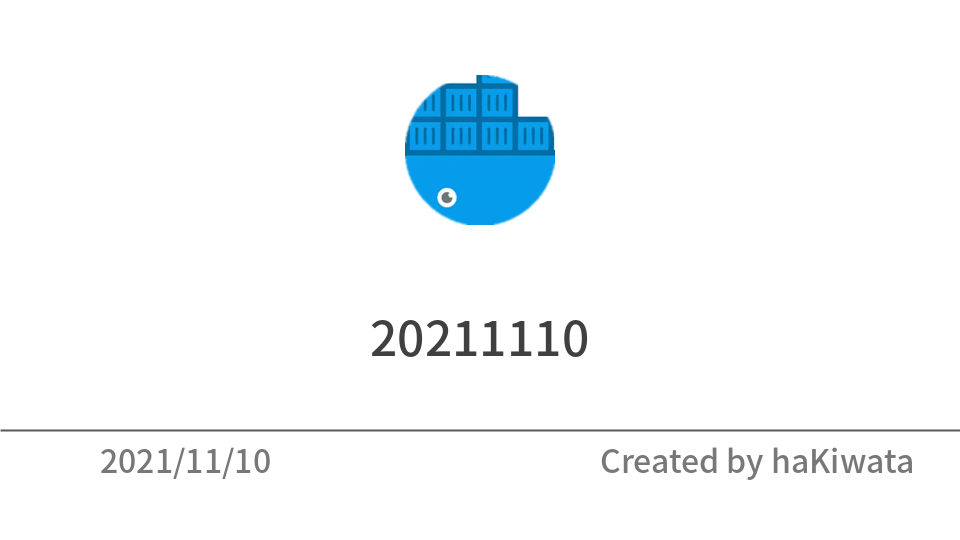
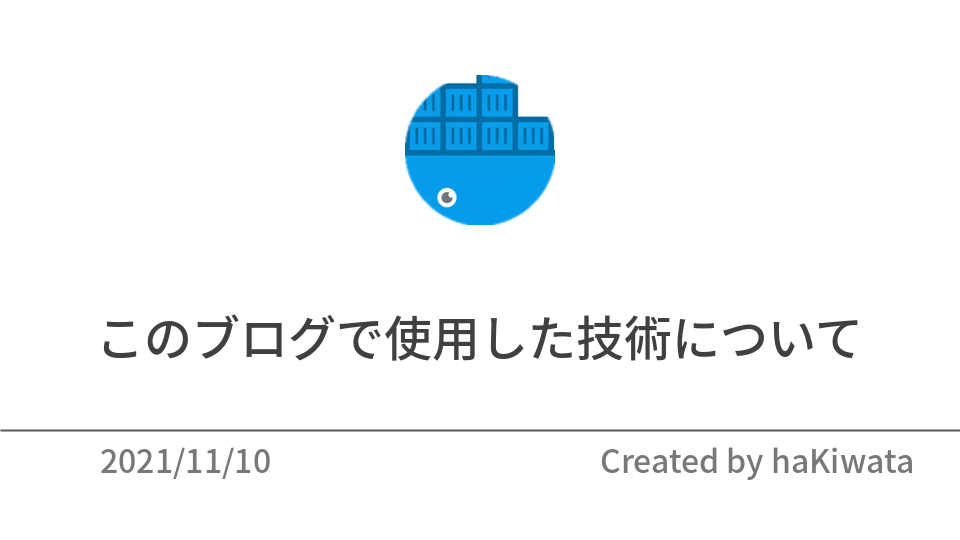
deploy: 7ca26ef5c5ee2825ffa344d73c783d59ae76740e

Changed region(s): [[0.0938, 0.563, 0.9062, 0.6815], [0.875, 0.6519, 0.9062, 0.6815]]

diff --git a/post/20211110/index.html b/post/20211110/index.html
@@ -1,6 +1,14 @@
-<!doctype html><html lang=en><head><meta charset=utf-8><meta name=viewport content="width=device-width,initial-scale=1"><meta name=generator content="Hugo 0.83.1"><title>20211110 - haKiwata</title><meta name=description content="概要  test test test test test test test  "><link rel="shortcut icon" href=https://hakiwata.jp/img/images/favicon.ico><link rel=stylesheet href=https://hakiwata.jp/css/ui.css><link rel=stylesheet href=https://hakiwata.jp/css/main.css><link rel=stylesheet href="https://fonts.googleapis.com/css?family=Fira+Mono|Lato|Raleway"><meta property="og:title" content="20211110"><meta property="og:description" content="概要  test test test test test test test  "><meta property="og:type" content="article"><meta property="og:url" content="https://hakiwata.jp/post/20211110/"><meta property="og:image" content="https://hakiwata.jp/"><meta property="article:section" content="post"><meta property="article:published_time" content="2021-11-10T11:17:18+00:00"><meta property="article:modified_time" content="2021-11-10T11:17:18+00:00"><meta name=twitter:card content="summary_large_image"><meta name=twitter:site content="@bilmnpvovqnmlid"><meta name=twitter:creator content="@bilmnpvovqnmlid"><meta property="twitter:image" content="https://hakiwata.jp/img/images/20211110.png"><meta property="og:title" content="20211110"><meta property="og:url" content="https://hakiwata.jp/post/20211110/"><meta property="og:image" content="https://hakiwata.jp/img/images/20211110.png"><meta property="og:description" content><script async src="https://www.googletagmanager.com/gtag/js?id=G-YXCYPL25QW"></script><script>var doNotTrack=!1;if(!doNotTrack){window.dataLayer=window.dataLayer||[];function gtag(){dataLayer.push(arguments)}gtag('js',new Date),gtag('config','G-YXCYPL25QW',{anonymize_ip:!1})}</script></head><body><header class="container no-print"><div class=u-header><nav class=bar><ul><li><a href=https://hakiwata.jp/><img class=icon-text src=https://hakiwata.jp/img/prev.svg></a></li><li><a href=https://hakiwata.jp/about>About</a></li><li><a href=https://hakiwata.jp/post>Post</a></li><li><a href=https://hakiwata.jp/scraps>Scraps</a></li><li><a href=https://hakiwata.jp/tags>Tags</a></li></ul></nav></div></header><main class=container><article><header><hgroup id=brand><h1>20211110</h1><h5><time datetime="2021-11-10 11:17:18 +0000 UTC">Nov 10, 2021</time>
-<span class=no-print><span></h5></hgroup><hr class=sep></header><h2 id=概要>概要</h2><ul><li>test</li><li>test</li><li>test</li><li>test</li><li>test</li><li>test</li><li>test</li></ul></article><nav class="no-print post-nav"><a class=prev-post href=https://hakiwata.jp/post/20211018/><img class=icon-text src=https://hakiwata.jp/img/prev.svg>ゼロからのOS自作入門を読んで
-OS を実装してみた</a></nav><hr class=sep></main><footer class="container no-print"><div class=u-footer><a href=https://github.com/dilmnqvovpnmlib><img class=icon-social src=https://hakiwata.jp/img/github.svg alt=Github></a>
+<!doctype html><html lang=en><head><meta charset=utf-8><meta name=viewport content="width=device-width,initial-scale=1"><meta name=generator content="Hugo 0.83.1"><title>このブログで使用した技術について - haKiwata</title><meta name=description content="概要  こんにちは！このブログを立ち上げてから約半年が経ちました。カスタマイズ性が高く簡単に運用できています。また、自分の書いた記事が積み重なっていく様子が可視化されるのが単純に嬉しいので、定期的なアウトプットに役立っています。そこで、今回はこのブログを作成するにあたって使用した技術などについて改めて振り返りたいと思います。  背景  このブログには様々な機能を加えたりして工夫を行っています。具体的には以下の 8 つが挙げられます。過去にブログにまとめた記事もあるので、それ以外を補足しつつどう工夫してこのブログが成り立っているかについて説明したいと思います。   Hugo と GitHub Pages を用いて開発 自動でデプロイするフローの導入 (CI/CD の構築) テンプレートを修正する 他のリポジトリとの連携 開発環境の Docker 化 バグの調査 Google Analytics の導入 OGP の作成    まず、1 に関して補足して説明します。このブログ (ポートフォリオ) は第三世代になります。第一世代は React + GitHub Pages のシンプルな構成で運用していました。あまり頻繁に更新するものでもなかったのですが、自動デプロイのパイプラインは構築していました。リポジトリは dilmnqvovpnmlib になります。第二世代は、React + Django + EC2 で運用していました。これは、単純にフロントエンドとバックエンドを分割させた形のアプリケーションを実装したかったという意図もあり、このような構成となりました。各アプリケーションは Docker と docker-compose を使用して Nginx のコンテナを経由して通信します。リポジトリは hk-41 になります。これらの 2 つのポートフォリオには単純に自己紹介をするページしかなく、ブログを投稿する機能がありませんでした。そこで、楽に運用でき拡張性も高い Hugo と GitHub Pages で新しく作り直したのがこのブログでした。
+  次に、2 に関して補足して説明します。main ブランチ に About と Post と Scraps の修正コードを push すると、GitHub Actions 上で設定したパイプラインが走ります。そうすると、ソースコードをビルドし自動でデプロイしてくれるようなフローを構築しています。この結果、デプロイのコマンドを逐一思い出す必要がなく、属人性を省いたデプロイができて嬉しいです。このブログは基本的には自分しか操作しない想定で作られています。そのため、プルリクを作成し、複数人の Approve を得てからデプロイを行うといった実務的なフローは構築していません。"><link rel="shortcut icon" href=https://hakiwata.jp/img/images/favicon.ico><link rel=stylesheet href=https://hakiwata.jp/css/ui.css><link rel=stylesheet href=https://hakiwata.jp/css/main.css><link rel=stylesheet href="https://fonts.googleapis.com/css?family=Fira+Mono|Lato|Raleway"><meta property="og:title" content="このブログで使用した技術について"><meta property="og:description" content="概要  こんにちは！このブログを立ち上げてから約半年が経ちました。カスタマイズ性が高く簡単に運用できています。また、自分の書いた記事が積み重なっていく様子が可視化されるのが単純に嬉しいので、定期的なアウトプットに役立っています。そこで、今回はこのブログを作成するにあたって使用した技術などについて改めて振り返りたいと思います。  背景  このブログには様々な機能を加えたりして工夫を行っています。具体的には以下の 8 つが挙げられます。過去にブログにまとめた記事もあるので、それ以外を補足しつつどう工夫してこのブログが成り立っているかについて説明したいと思います。   Hugo と GitHub Pages を用いて開発 自動でデプロイするフローの導入 (CI/CD の構築) テンプレートを修正する 他のリポジトリとの連携 開発環境の Docker 化 バグの調査 Google Analytics の導入 OGP の作成    まず、1 に関して補足して説明します。このブログ (ポートフォリオ) は第三世代になります。第一世代は React + GitHub Pages のシンプルな構成で運用していました。あまり頻繁に更新するものでもなかったのですが、自動デプロイのパイプラインは構築していました。リポジトリは dilmnqvovpnmlib になります。第二世代は、React + Django + EC2 で運用していました。これは、単純にフロントエンドとバックエンドを分割させた形のアプリケーションを実装したかったという意図もあり、このような構成となりました。各アプリケーションは Docker と docker-compose を使用して Nginx のコンテナを経由して通信します。リポジトリは hk-41 になります。これらの 2 つのポートフォリオには単純に自己紹介をするページしかなく、ブログを投稿する機能がありませんでした。そこで、楽に運用でき拡張性も高い Hugo と GitHub Pages で新しく作り直したのがこのブログでした。
+  次に、2 に関して補足して説明します。main ブランチ に About と Post と Scraps の修正コードを push すると、GitHub Actions 上で設定したパイプラインが走ります。そうすると、ソースコードをビルドし自動でデプロイしてくれるようなフローを構築しています。この結果、デプロイのコマンドを逐一思い出す必要がなく、属人性を省いたデプロイができて嬉しいです。このブログは基本的には自分しか操作しない想定で作られています。そのため、プルリクを作成し、複数人の Approve を得てからデプロイを行うといった実務的なフローは構築していません。"><meta property="og:type" content="article"><meta property="og:url" content="https://hakiwata.jp/post/20211110/"><meta property="og:image" content="https://hakiwata.jp/"><meta property="article:section" content="post"><meta property="article:published_time" content="2021-11-10T11:17:18+00:00"><meta property="article:modified_time" content="2021-11-10T11:17:18+00:00"><meta name=twitter:card content="summary_large_image"><meta name=twitter:site content="@bilmnpvovqnmlid"><meta name=twitter:creator content="@bilmnpvovqnmlid"><meta property="twitter:image" content="https://hakiwata.jp/img/images/20211110.png"><meta property="og:title" content="このブログで使用した技術について"><meta property="og:url" content="https://hakiwata.jp/post/20211110/"><meta property="og:image" content="https://hakiwata.jp/img/images/20211110.png"><meta property="og:description" content><script async src="https://www.googletagmanager.com/gtag/js?id=G-YXCYPL25QW"></script><script>var doNotTrack=!1;if(!doNotTrack){window.dataLayer=window.dataLayer||[];function gtag(){dataLayer.push(arguments)}gtag('js',new Date),gtag('config','G-YXCYPL25QW',{anonymize_ip:!1})}</script></head><body><header class="container no-print"><div class=u-header><nav class=bar><ul><li><a href=https://hakiwata.jp/><img class=icon-text src=https://hakiwata.jp/img/prev.svg></a></li><li><a href=https://hakiwata.jp/about>About</a></li><li><a href=https://hakiwata.jp/post>Post</a></li><li><a href=https://hakiwata.jp/scraps>Scraps</a></li><li><a href=https://hakiwata.jp/tags>Tags</a></li></ul></nav></div></header><main class=container><article><header><hgroup id=brand><h1>このブログで使用した技術について</h1><h5><time datetime="2021-11-10 11:17:18 +0000 UTC">Nov 10, 2021</time>
+<span class=no-print>-
+<a href=https://hakiwata.jp/tags/hugo>Hugo</a>
+<a href=https://hakiwata.jp/tags/python>Python</a>
+<a href=https://hakiwata.jp/tags/docker>Docker</a>
+<a href=https://hakiwata.jp/tags/docker-compose>docker-compose</a>
+<span></h5></hgroup><hr class=sep></header><h2 id=概要>概要</h2><ul><li>こんにちは！このブログを立ち上げてから約半年が経ちました。カスタマイズ性が高く簡単に運用できています。また、自分の書いた記事が積み重なっていく様子が可視化されるのが単純に嬉しいので、定期的なアウトプットに役立っています。そこで、今回はこのブログを作成するにあたって使用した技術などについて改めて振り返りたいと思います。</li></ul><h2 id=背景>背景</h2><ul><li>このブログには様々な機能を加えたりして工夫を行っています。具体的には以下の 8 つが挙げられます。過去にブログにまとめた記事もあるので、それ以外を補足しつつどう工夫してこのブログが成り立っているかについて説明したいと思います。</li></ul><ol><li><a href=https://hakiwata.jp/post/20210430/>Hugo と GitHub Pages を用いて開発</a></li><li>自動でデプロイするフローの導入 (CI/CD の構築)</li><li><a href=https://hakiwata.jp/post/20210611/>テンプレートを修正する</a></li><li><a href=https://hakiwata.jp/post/20210911/>他のリポジトリとの連携</a></li><li><a href=https://hakiwata.jp/post/20210628/>開発環境の Docker 化</a></li><li><a href=https://hakiwata.jp/post/20210624/>バグの調査</a></li><li>Google Analytics の導入</li><li>OGP の作成</li></ol><ul><li><p>まず、1 に関して補足して説明します。このブログ (ポートフォリオ) は第三世代になります。第一世代は React + GitHub Pages のシンプルな構成で運用していました。あまり頻繁に更新するものでもなかったのですが、自動デプロイのパイプラインは構築していました。リポジトリは <a href=https://github.com/dilmnqvovpnmlib/dilmnqvovpnmlib/tree/master>dilmnqvovpnmlib</a> になります。第二世代は、React + Django + EC2 で運用していました。これは、単純にフロントエンドとバックエンドを分割させた形のアプリケーションを実装したかったという意図もあり、このような構成となりました。各アプリケーションは Docker と docker-compose を使用して Nginx のコンテナを経由して通信します。リポジトリは <a href=https://github.com/dilmnqvovpnmlib/hk-41>hk-41</a> になります。これらの 2 つのポートフォリオには単純に自己紹介をするページしかなく、ブログを投稿する機能がありませんでした。そこで、楽に運用でき拡張性も高い Hugo と GitHub Pages で新しく作り直したのがこのブログでした。</p></li><li><p>次に、2 に関して補足して説明します。<code>main ブランチ</code> に <code>About</code> と <code>Post</code> と <code>Scraps</code> の修正コードを push すると、GitHub Actions 上で設定したパイプラインが走ります。そうすると、ソースコードをビルドし自動でデプロイしてくれるようなフローを構築しています。この結果、デプロイのコマンドを逐一思い出す必要がなく、属人性を省いたデプロイができて嬉しいです。このブログは基本的には自分しか操作しない想定で作られています。そのため、プルリクを作成し、複数人の Approve を得てからデプロイを行うといった実務的なフローは構築していません。</p></li><li><p>最後に、8 に関して補足して説明します。このブログでは、各エントリに応じた OGP を生成したいと思っていました。特に各エントリのタイトルと日付を OGP に組み込む方針でした。この方針に基づき、2 のデプロイする直前に GitHub Actions 上で OGP を作成する Python のスクリプトが走るようになっています。こうして OGP の作成の自動化を図っています。また、OGP を作成するフローは以下のようになります。</p></li></ul><p><img src=create-ogp-image.png alt=create-ogp-image.png></p><h2 id=最後に>最後に</h2><ul><li>この記事を書き上げた時点で 18 エントリも積み上げることができました。初めはこのブログ自体を作るのが面倒くさかったのですが、定期的にアウトプットをすることができ、今ではこのブログを作って良かったと思っています。まだまだアウトプットしたいネタがたくさん溜まっているので、時間を見つけて書き上げていきたいと思います🤞</li></ul></article><nav class="no-print post-nav"><a class=prev-post href=https://hakiwata.jp/post/20211018/><img class=icon-text src=https://hakiwata.jp/img/prev.svg>ゼロからのOS自作入門を読んで
+OS を実装してみた</a></nav><section id=related><h4>See Also</h4><ul><li><a href=https://hakiwata.jp/post/20210628/>自作ブログの開発環境を
+Docker で移行した</a></li><li><a href=https://hakiwata.jp/post/20210911/>自作 OS のリポジトリの README.md を自動更新する</a></li><li><a href=https://hakiwata.jp/post/20210624/>Hugo で Markdown が上手く Parse されない原因を調査してみた</a></li></ul></section><hr class=sep></main><footer class="container no-print"><div class=u-footer><a href=https://github.com/dilmnqvovpnmlib><img class=icon-social src=https://hakiwata.jp/img/github.svg alt=Github></a>
 <a href=https://twitter.com/bilmnpvovqnmlid><img class=icon-social src=https://hakiwata.jp/img/twitter.svg alt=Twitter></a>
 <a href=https://hakiwata.jp/index.xml target=_blank><img class=icon-social src=https://hakiwata.jp/img/feed.svg alt=Feed></a><p>&copy; 2021 haKiwata</p><a href=#brand><img class=icon-text src=https://hakiwata.jp/img/toup.svg alt="To Up">
 <span>Back to Up</span></a></div></footer></body></html>

diff --git a/post/20211018/index.html b/post/20211018/index.html
@@ -13,7 +13,7 @@ OS を実装してみた</h1><h5><time datetime="2021-10-17 19:29:55 +0000 UTC">
 <a href=https://hakiwata.jp/tags/os>OS</a>
 <a href=https://hakiwata.jp/tags/kernel>Kernel</a>
 <span></h5></hgroup><hr class=sep></header><h2 id=概要>概要</h2><ul><li>こんにちは！今年の 8 月中旬から<a href=https://www.amazon.co.jp/%E3%82%BC%E3%83%AD%E3%81%8B%E3%82%89%E3%81%AEOS%E8%87%AA%E4%BD%9C%E5%85%A5%E9%96%80-%E5%86%85%E7%94%B0-%E5%85%AC%E5%A4%AA/dp/4839975868>ゼロからのOS自作入門</a>を読んで紹介されている OS を一通り写経して作り上げてみました。そこで、今回はこの本を読むまでに何をしていたかを振り返りつつ、読もうと思ったきっかけや感想などを残したいと思います。</li></ul><h2 id=きっかけ>きっかけ</h2><ul><li><p>今年度で学生生活が最後で時間に余裕がある内に、コンピュータや OS について詳しくなりたいと思っていました。自分は普段から Ubuntu 18.04 を使っているのですが、低レイヤや Linux に詳しくありません。そのため、まず初めの取っ掛かりとして低レイヤ周りの本や資料を少しずつ読んだりしていました。例えば以下が挙げられます。</p><ul><li><a href=https://www.amazon.co.jp/%E8%A9%A6%E3%81%97%E3%81%A6%E7%90%86%E8%A7%A3-Linux%E3%81%AE%E3%81%97%E3%81%8F%E3%81%BF-%E5%AE%9F%E9%A8%93%E3%81%A8%E5%9B%B3%E8%A7%A3%E3%81%A7%E5%AD%A6%E3%81%B6OS%E3%81%A8%E3%83%8F%E3%83%BC%E3%83%89%E3%82%A6%E3%82%A7%E3%82%A2%E3%81%AE%E5%9F%BA%E7%A4%8E%E7%9F%A5%E8%AD%98-%E6%AD%A6%E5%86%85-%E8%A6%9A/dp/477419607X>[試して理解]Linuxのしくみ ~実験と図解で学ぶOSとハードウェアの基礎知識</a></li><li><a href=https://www.amazon.co.jp/%E3%82%B3%E3%83%B3%E3%83%94%E3%83%A5%E3%83%BC%E3%82%BF%E3%82%B7%E3%82%B9%E3%83%86%E3%83%A0%E3%81%AE%E7%90%86%E8%AB%96%E3%81%A8%E5%AE%9F%E8%A3%85-%E2%80%95%E3%83%A2%E3%83%80%E3%83%B3%E3%81%AA%E3%82%B3%E3%83%B3%E3%83%94%E3%83%A5%E3%83%BC%E3%82%BF%E3%81%AE%E4%BD%9C%E3%82%8A%E6%96%B9-Noam-Nisan/dp/4873117127>コンピュータシステムの理論と実装 ―モダンなコンピュータの作り方</a></li><li><a href=https://www.sigbus.info/compilerbook>低レイヤを知りたい人のためのCコンパイラ作成入門</a></li><li><a href=https://www.amazon.co.jp/%E3%81%B5%E3%81%A4%E3%81%86%E3%81%AELinux%E3%83%97%E3%83%AD%E3%82%B0%E3%83%A9%E3%83%9F%E3%83%B3%E3%82%B0-%E7%AC%AC2%E7%89%88-Linux%E3%81%AE%E4%BB%95%E7%B5%84%E3%81%BF%E3%81%8B%E3%82%89%E5%AD%A6%E3%81%B9%E3%82%8Bgcc%E3%83%97%E3%83%AD%E3%82%B0%E3%83%A9%E3%83%9F%E3%83%B3%E3%82%B0%E3%81%AE%E7%8E%8B%E9%81%93-%E9%9D%92%E6%9C%A8-%E5%B3%B0%E9%83%8E/dp/4797386479>ふつうのLinuxプログラミング 第2版 Linuxの仕組みから学べるgccプログラミングの王道</a></li><li><a href=https://www.ohmsha.co.jp/book/9784274065842/>基礎からわかるTCP/IP ネットワーク実験プログラミング（第2版）</a></li><li><a href=https://www.amazon.co.jp/Hacking-%E7%BE%8E%E3%81%97%E3%81%8D%E7%AD%96%E8%AC%80-%E2%80%95%E8%84%86%E5%BC%B1%E6%80%A7%E6%94%BB%E6%92%83%E3%81%AE%E7%90%86%E8%AB%96%E3%81%A8%E5%AE%9F%E9%9A%9B-Jon-Erickson/dp/4873115140>Hacking: 美しき策謀 第2版 ―脆弱性攻撃の理論と実際</a></li><li><a href=https://www.amazon.co.jp/%E3%83%8F%E3%83%AD%E3%83%BC%E2%80%9CHello-World%E2%80%9D-OS%E3%81%A8%E6%A8%99%E6%BA%96%E3%83%A9%E3%82%A4%E3%83%96%E3%83%A9%E3%83%AA%E3%81%AE%E3%82%B7%E3%82%B4%E3%83%88%E3%81%A8%E3%81%97%E3%81%8F%E3%81%BF-%E5%9D%82%E4%BA%95%E5%BC%98%E4%BA%AE-ebook/dp/B01GH9AM8C>ハロー“Hello, World” OSと標準ライブラリのシゴトとしくみ</a></li></ul></li><li><p>このように Linux や低レイヤに興味がありつつ、大学の先輩が Linux Kernel にコントリビュートし楽しそうにしている様子を見たり、研究室の隣の同期がこの本を読み切ったりしていて、今始めることがチャンスだと思い、思い切って初めてみました。</p></li></ul><h2 id=感想>感想</h2><ul><li><p>OS を一から作り上げる行為は、低レイヤの総合格闘技感があり、非常に楽しかったです。この本を通して個人的に特に面白かった箇所を抜粋して挙げていきます。</p><ul><li>一番初めの <code>Hello World</code> を出力できた時</li><li>C++ で実装できないロジックをアセンブリ言語で実装した時</li><li>割り込みを実装し、メッセージを送受信できた時</li><li>コンテキストスイッチの実装を知った時</li><li>Priority Queue を使ってタスクに優先度を付け、タスクを Sleep/Running できるように実装した時</li><li>初めてシステムコールを実装した時</li><li>ファイルの書き込みファイルディスクリプタで抽象化した時</li><li>ページフォルトを活用してデマンドページングを実装した時</li><li>実装のバグを調査するために <code>printk</code> や <code>Log</code> でデバッグをたくさんした時</li><li>この本を読んだ研究室の同期と OS の機能に関する実装に関する議論ができたこと</li></ul></li><li><p>また、細かい日記に関しては以下に記述しました。全く書いていない箇所もあればデバッグが辛かった様子を書いたりしていて、内容に関してはまちまちです。</p><ul><li><a href=https://hakiwata.jp/post/20210830/>自作 OS 日記 (1)</a></li><li><a href=https://hakiwata.jp/post/20210831/>自作 OS 日記 (2)</a></li><li><a href=https://hakiwata.jp/post/20210901/>自作 OS 日記 (3)</a></li></ul></li></ul><h2 id=最後に>最後に</h2><ul><li>大学の講義や本を通して OS の理論を漠然と理論は知っていたものの、プログラムレベルまでの実装がイメージできなかったことがかなりクリアになりました。かなり多くのことを学べてかなり楽しかったです。この本を通して得た OS 周りの知識をさらに深めたいとは思っているのですが、これから具体的にどんなアクションを取るかは決めていません。ですが、ひとまずこの素晴らしい記事 (<a href=https://kuniyu.jp/ja/blog/2/>Linux カーネルを QEMU 上で起動する </a>) を参考に Linux Kernel をビルドし、起動はしてみたので、それを使って何か遊んでみつつ、機能を絞って Linux Kernel のコードを読んでみたいと思います🤞</li></ul><h2 id=参考>参考</h2><ul><li><a href=https://www.amazon.co.jp/%E3%82%BC%E3%83%AD%E3%81%8B%E3%82%89%E3%81%AEOS%E8%87%AA%E4%BD%9C%E5%85%A5%E9%96%80-%E5%86%85%E7%94%B0-%E5%85%AC%E5%A4%AA/dp/4839975868>ゼロからのOS自作入門</a></li><li><a href=https://github.com/uchan-nos/mikanos>mikanos</a></li><li><a href=https://github.com/dilmnqvovpnmlib/honOS>honOS</a></li></ul></article><nav class="no-print post-nav"><a class=prev-post href=https://hakiwata.jp/post/20210911/><img class=icon-text src=https://hakiwata.jp/img/prev.svg>自作 OS のリポジトリの README.md を自動更新する</a>
-<a class=next-post href=https://hakiwata.jp/post/20211110/>20211110<img class=icon-text src=https://hakiwata.jp/img/next.svg></a></nav><section id=related><h4>See Also</h4><ul><li><a href=https://hakiwata.jp/post/20210901/>自作 OS 日記 (3)</a></li><li><a href=https://hakiwata.jp/post/20210831/>自作 OS 日記 (2)</a></li><li><a href=https://hakiwata.jp/post/20210830/>自作 OS 日記 (1)</a></li></ul></section><hr class=sep></main><footer class="container no-print"><div class=u-footer><a href=https://github.com/dilmnqvovpnmlib><img class=icon-social src=https://hakiwata.jp/img/github.svg alt=Github></a>
+<a class=next-post href=https://hakiwata.jp/post/20211110/>このブログで使用した技術について<img class=icon-text src=https://hakiwata.jp/img/next.svg></a></nav><section id=related><h4>See Also</h4><ul><li><a href=https://hakiwata.jp/post/20210901/>自作 OS 日記 (3)</a></li><li><a href=https://hakiwata.jp/post/20210831/>自作 OS 日記 (2)</a></li><li><a href=https://hakiwata.jp/post/20210830/>自作 OS 日記 (1)</a></li></ul></section><hr class=sep></main><footer class="container no-print"><div class=u-footer><a href=https://github.com/dilmnqvovpnmlib><img class=icon-social src=https://hakiwata.jp/img/github.svg alt=Github></a>
 <a href=https://twitter.com/bilmnpvovqnmlid><img class=icon-social src=https://hakiwata.jp/img/twitter.svg alt=Twitter></a>
 <a href=https://hakiwata.jp/index.xml target=_blank><img class=icon-social src=https://hakiwata.jp/img/feed.svg alt=Feed></a><p>&copy; 2021 haKiwata</p><a href=#brand><img class=icon-text src=https://hakiwata.jp/img/toup.svg alt="To Up">
 <span>Back to Up</span></a></div></footer></body></html>

diff --git a/tags/python/index.html b/tags/python/index.html
@@ -1,4 +1,5 @@
-<!doctype html><html lang=en><head><meta charset=utf-8><meta name=viewport content="width=device-width,initial-scale=1"><meta name=generator content="Hugo 0.83.1"><title>Python - haKiwata</title><meta name=description content><link rel="shortcut icon" href=https://hakiwata.jp/img/images/favicon.ico><link rel=stylesheet href=https://hakiwata.jp/css/ui.css><link rel=stylesheet href=https://hakiwata.jp/css/main.css><link rel=stylesheet href="https://fonts.googleapis.com/css?family=Fira+Mono|Lato|Raleway"><meta property="og:title" content="Python"><meta property="og:description" content="haKiwata's Website."><meta property="og:type" content="website"><meta property="og:url" content="https://hakiwata.jp/tags/python/"><meta property="og:image" content="https://hakiwata.jp/"><meta name=twitter:card content="summary_large_image"><meta name=twitter:site content="@bilmnpvovqnmlid"><meta name=twitter:creator content="@bilmnpvovqnmlid"><meta property="twitter:image" content="https://hakiwata.jp/img/images/kiwata_partly.png"><meta property="og:title" content="Python"><meta property="og:url" content="https://hakiwata.jp/tags/python/"><meta property="og:image" content="https://hakiwata.jp/img/images/kiwata_partly.png"><meta property="og:description" content><script async src="https://www.googletagmanager.com/gtag/js?id=G-YXCYPL25QW"></script><script>var doNotTrack=!1;if(!doNotTrack){window.dataLayer=window.dataLayer||[];function gtag(){dataLayer.push(arguments)}gtag('js',new Date),gtag('config','G-YXCYPL25QW',{anonymize_ip:!1})}</script></head><body><header class="container no-print"><div class=u-header><nav class=bar><ul><li><a href=https://hakiwata.jp/><img class=icon-text src=https://hakiwata.jp/img/prev.svg></a></li><li><a href=https://hakiwata.jp/about>About</a></li><li><a href=https://hakiwata.jp/post>Post</a></li><li><a href=https://hakiwata.jp/scraps>Scraps</a></li><li><a href=https://hakiwata.jp/tags>Tags</a></li></ul></nav></div></header><main class=container><article><header><hgroup id=brand><h1>Python</h1></hgroup><hr class=sep></header><ul class=no-bullet><li><span><time datetime="2021-09-10 15:50:53 +0000 UTC">Sep 10, 2021</time></span>
+<!doctype html><html lang=en><head><meta charset=utf-8><meta name=viewport content="width=device-width,initial-scale=1"><meta name=generator content="Hugo 0.83.1"><title>Python - haKiwata</title><meta name=description content><link rel="shortcut icon" href=https://hakiwata.jp/img/images/favicon.ico><link rel=stylesheet href=https://hakiwata.jp/css/ui.css><link rel=stylesheet href=https://hakiwata.jp/css/main.css><link rel=stylesheet href="https://fonts.googleapis.com/css?family=Fira+Mono|Lato|Raleway"><meta property="og:title" content="Python"><meta property="og:description" content="haKiwata's Website."><meta property="og:type" content="website"><meta property="og:url" content="https://hakiwata.jp/tags/python/"><meta property="og:image" content="https://hakiwata.jp/"><meta name=twitter:card content="summary_large_image"><meta name=twitter:site content="@bilmnpvovqnmlid"><meta name=twitter:creator content="@bilmnpvovqnmlid"><meta property="twitter:image" content="https://hakiwata.jp/img/images/kiwata_partly.png"><meta property="og:title" content="Python"><meta property="og:url" content="https://hakiwata.jp/tags/python/"><meta property="og:image" content="https://hakiwata.jp/img/images/kiwata_partly.png"><meta property="og:description" content><script async src="https://www.googletagmanager.com/gtag/js?id=G-YXCYPL25QW"></script><script>var doNotTrack=!1;if(!doNotTrack){window.dataLayer=window.dataLayer||[];function gtag(){dataLayer.push(arguments)}gtag('js',new Date),gtag('config','G-YXCYPL25QW',{anonymize_ip:!1})}</script></head><body><header class="container no-print"><div class=u-header><nav class=bar><ul><li><a href=https://hakiwata.jp/><img class=icon-text src=https://hakiwata.jp/img/prev.svg></a></li><li><a href=https://hakiwata.jp/about>About</a></li><li><a href=https://hakiwata.jp/post>Post</a></li><li><a href=https://hakiwata.jp/scraps>Scraps</a></li><li><a href=https://hakiwata.jp/tags>Tags</a></li></ul></nav></div></header><main class=container><article><header><hgroup id=brand><h1>Python</h1></hgroup><hr class=sep></header><ul class=no-bullet><li><span><time datetime="2021-11-10 11:17:18 +0000 UTC">Nov 10, 2021</time></span>
+<a href=https://hakiwata.jp/post/20211110/>このブログで使用した技術について</a></li><li><span><time datetime="2021-09-10 15:50:53 +0000 UTC">Sep 10, 2021</time></span>
 <a href=https://hakiwata.jp/post/20210911/>自作 OS のリポジトリの README.md を自動更新する</a></li></ul></article><hr class=sep></main><footer class="container no-print"><div class=u-footer><a href=https://github.com/dilmnqvovpnmlib><img class=icon-social src=https://hakiwata.jp/img/github.svg alt=Github></a>
 <a href=https://twitter.com/bilmnpvovqnmlid><img class=icon-social src=https://hakiwata.jp/img/twitter.svg alt=Twitter></a>
 <a href=https://hakiwata.jp/index.xml target=_blank><img class=icon-social src=https://hakiwata.jp/img/feed.svg alt=Feed></a><p>&copy; 2021 haKiwata</p><a href=#brand><img class=icon-text src=https://hakiwata.jp/img/toup.svg alt="To Up">

diff --git a/tags/docker/index.html b/tags/docker/index.html
@@ -1,4 +1,5 @@
-<!doctype html><html lang=en><head><meta charset=utf-8><meta name=viewport content="width=device-width,initial-scale=1"><meta name=generator content="Hugo 0.83.1"><title>Docker - haKiwata</title><meta name=description content><link rel="shortcut icon" href=https://hakiwata.jp/img/images/favicon.ico><link rel=stylesheet href=https://hakiwata.jp/css/ui.css><link rel=stylesheet href=https://hakiwata.jp/css/main.css><link rel=stylesheet href="https://fonts.googleapis.com/css?family=Fira+Mono|Lato|Raleway"><meta property="og:title" content="Docker"><meta property="og:description" content="haKiwata's Website."><meta property="og:type" content="website"><meta property="og:url" content="https://hakiwata.jp/tags/docker/"><meta property="og:image" content="https://hakiwata.jp/"><meta name=twitter:card content="summary_large_image"><meta name=twitter:site content="@bilmnpvovqnmlid"><meta name=twitter:creator content="@bilmnpvovqnmlid"><meta property="twitter:image" content="https://hakiwata.jp/img/images/kiwata_partly.png"><meta property="og:title" content="Docker"><meta property="og:url" content="https://hakiwata.jp/tags/docker/"><meta property="og:image" content="https://hakiwata.jp/img/images/kiwata_partly.png"><meta property="og:description" content><script async src="https://www.googletagmanager.com/gtag/js?id=G-YXCYPL25QW"></script><script>var doNotTrack=!1;if(!doNotTrack){window.dataLayer=window.dataLayer||[];function gtag(){dataLayer.push(arguments)}gtag('js',new Date),gtag('config','G-YXCYPL25QW',{anonymize_ip:!1})}</script></head><body><header class="container no-print"><div class=u-header><nav class=bar><ul><li><a href=https://hakiwata.jp/><img class=icon-text src=https://hakiwata.jp/img/prev.svg></a></li><li><a href=https://hakiwata.jp/about>About</a></li><li><a href=https://hakiwata.jp/post>Post</a></li><li><a href=https://hakiwata.jp/scraps>Scraps</a></li><li><a href=https://hakiwata.jp/tags>Tags</a></li></ul></nav></div></header><main class=container><article><header><hgroup id=brand><h1>Docker</h1></hgroup><hr class=sep></header><ul class=no-bullet><li><span><time datetime="2021-06-26 20:39:56 +0000 UTC">Jun 26, 2021</time></span>
+<!doctype html><html lang=en><head><meta charset=utf-8><meta name=viewport content="width=device-width,initial-scale=1"><meta name=generator content="Hugo 0.83.1"><title>Docker - haKiwata</title><meta name=description content><link rel="shortcut icon" href=https://hakiwata.jp/img/images/favicon.ico><link rel=stylesheet href=https://hakiwata.jp/css/ui.css><link rel=stylesheet href=https://hakiwata.jp/css/main.css><link rel=stylesheet href="https://fonts.googleapis.com/css?family=Fira+Mono|Lato|Raleway"><meta property="og:title" content="Docker"><meta property="og:description" content="haKiwata's Website."><meta property="og:type" content="website"><meta property="og:url" content="https://hakiwata.jp/tags/docker/"><meta property="og:image" content="https://hakiwata.jp/"><meta name=twitter:card content="summary_large_image"><meta name=twitter:site content="@bilmnpvovqnmlid"><meta name=twitter:creator content="@bilmnpvovqnmlid"><meta property="twitter:image" content="https://hakiwata.jp/img/images/kiwata_partly.png"><meta property="og:title" content="Docker"><meta property="og:url" content="https://hakiwata.jp/tags/docker/"><meta property="og:image" content="https://hakiwata.jp/img/images/kiwata_partly.png"><meta property="og:description" content><script async src="https://www.googletagmanager.com/gtag/js?id=G-YXCYPL25QW"></script><script>var doNotTrack=!1;if(!doNotTrack){window.dataLayer=window.dataLayer||[];function gtag(){dataLayer.push(arguments)}gtag('js',new Date),gtag('config','G-YXCYPL25QW',{anonymize_ip:!1})}</script></head><body><header class="container no-print"><div class=u-header><nav class=bar><ul><li><a href=https://hakiwata.jp/><img class=icon-text src=https://hakiwata.jp/img/prev.svg></a></li><li><a href=https://hakiwata.jp/about>About</a></li><li><a href=https://hakiwata.jp/post>Post</a></li><li><a href=https://hakiwata.jp/scraps>Scraps</a></li><li><a href=https://hakiwata.jp/tags>Tags</a></li></ul></nav></div></header><main class=container><article><header><hgroup id=brand><h1>Docker</h1></hgroup><hr class=sep></header><ul class=no-bullet><li><span><time datetime="2021-11-10 11:17:18 +0000 UTC">Nov 10, 2021</time></span>
+<a href=https://hakiwata.jp/post/20211110/>このブログで使用した技術について</a></li><li><span><time datetime="2021-06-26 20:39:56 +0000 UTC">Jun 26, 2021</time></span>
 <a href=https://hakiwata.jp/post/20210628/>自作ブログの開発環境を
 Docker で移行した</a></li></ul></article><hr class=sep></main><footer class="container no-print"><div class=u-footer><a href=https://github.com/dilmnqvovpnmlib><img class=icon-social src=https://hakiwata.jp/img/github.svg alt=Github></a>
 <a href=https://twitter.com/bilmnpvovqnmlid><img class=icon-social src=https://hakiwata.jp/img/twitter.svg alt=Twitter></a>

diff --git a/tags/hugo/index.html b/tags/hugo/index.html
@@ -1,4 +1,5 @@
-<!doctype html><html lang=en><head><meta charset=utf-8><meta name=viewport content="width=device-width,initial-scale=1"><meta name=generator content="Hugo 0.83.1"><title>Hugo - haKiwata</title><meta name=description content><link rel="shortcut icon" href=https://hakiwata.jp/img/images/favicon.ico><link rel=stylesheet href=https://hakiwata.jp/css/ui.css><link rel=stylesheet href=https://hakiwata.jp/css/main.css><link rel=stylesheet href="https://fonts.googleapis.com/css?family=Fira+Mono|Lato|Raleway"><meta property="og:title" content="Hugo"><meta property="og:description" content="haKiwata's Website."><meta property="og:type" content="website"><meta property="og:url" content="https://hakiwata.jp/tags/hugo/"><meta property="og:image" content="https://hakiwata.jp/"><meta name=twitter:card content="summary_large_image"><meta name=twitter:site content="@bilmnpvovqnmlid"><meta name=twitter:creator content="@bilmnpvovqnmlid"><meta property="twitter:image" content="https://hakiwata.jp/img/images/kiwata_partly.png"><meta property="og:title" content="Hugo"><meta property="og:url" content="https://hakiwata.jp/tags/hugo/"><meta property="og:image" content="https://hakiwata.jp/img/images/kiwata_partly.png"><meta property="og:description" content><script async src="https://www.googletagmanager.com/gtag/js?id=G-YXCYPL25QW"></script><script>var doNotTrack=!1;if(!doNotTrack){window.dataLayer=window.dataLayer||[];function gtag(){dataLayer.push(arguments)}gtag('js',new Date),gtag('config','G-YXCYPL25QW',{anonymize_ip:!1})}</script></head><body><header class="container no-print"><div class=u-header><nav class=bar><ul><li><a href=https://hakiwata.jp/><img class=icon-text src=https://hakiwata.jp/img/prev.svg></a></li><li><a href=https://hakiwata.jp/about>About</a></li><li><a href=https://hakiwata.jp/post>Post</a></li><li><a href=https://hakiwata.jp/scraps>Scraps</a></li><li><a href=https://hakiwata.jp/tags>Tags</a></li></ul></nav></div></header><main class=container><article><header><hgroup id=brand><h1>Hugo</h1></hgroup><hr class=sep></header><ul class=no-bullet><li><span><time datetime="2021-06-26 20:39:56 +0000 UTC">Jun 26, 2021</time></span>
+<!doctype html><html lang=en><head><meta charset=utf-8><meta name=viewport content="width=device-width,initial-scale=1"><meta name=generator content="Hugo 0.83.1"><title>Hugo - haKiwata</title><meta name=description content><link rel="shortcut icon" href=https://hakiwata.jp/img/images/favicon.ico><link rel=stylesheet href=https://hakiwata.jp/css/ui.css><link rel=stylesheet href=https://hakiwata.jp/css/main.css><link rel=stylesheet href="https://fonts.googleapis.com/css?family=Fira+Mono|Lato|Raleway"><meta property="og:title" content="Hugo"><meta property="og:description" content="haKiwata's Website."><meta property="og:type" content="website"><meta property="og:url" content="https://hakiwata.jp/tags/hugo/"><meta property="og:image" content="https://hakiwata.jp/"><meta name=twitter:card content="summary_large_image"><meta name=twitter:site content="@bilmnpvovqnmlid"><meta name=twitter:creator content="@bilmnpvovqnmlid"><meta property="twitter:image" content="https://hakiwata.jp/img/images/kiwata_partly.png"><meta property="og:title" content="Hugo"><meta property="og:url" content="https://hakiwata.jp/tags/hugo/"><meta property="og:image" content="https://hakiwata.jp/img/images/kiwata_partly.png"><meta property="og:description" content><script async src="https://www.googletagmanager.com/gtag/js?id=G-YXCYPL25QW"></script><script>var doNotTrack=!1;if(!doNotTrack){window.dataLayer=window.dataLayer||[];function gtag(){dataLayer.push(arguments)}gtag('js',new Date),gtag('config','G-YXCYPL25QW',{anonymize_ip:!1})}</script></head><body><header class="container no-print"><div class=u-header><nav class=bar><ul><li><a href=https://hakiwata.jp/><img class=icon-text src=https://hakiwata.jp/img/prev.svg></a></li><li><a href=https://hakiwata.jp/about>About</a></li><li><a href=https://hakiwata.jp/post>Post</a></li><li><a href=https://hakiwata.jp/scraps>Scraps</a></li><li><a href=https://hakiwata.jp/tags>Tags</a></li></ul></nav></div></header><main class=container><article><header><hgroup id=brand><h1>Hugo</h1></hgroup><hr class=sep></header><ul class=no-bullet><li><span><time datetime="2021-11-10 11:17:18 +0000 UTC">Nov 10, 2021</time></span>
+<a href=https://hakiwata.jp/post/20211110/>このブログで使用した技術について</a></li><li><span><time datetime="2021-06-26 20:39:56 +0000 UTC">Jun 26, 2021</time></span>
 <a href=https://hakiwata.jp/post/20210628/>自作ブログの開発環境を
 Docker で移行した</a></li><li><span><time datetime="2021-06-22 13:08:38 +0000 UTC">Jun 22, 2021</time></span>
 <a href=https://hakiwata.jp/post/20210624/>Hugo で Markdown が上手く Parse されない原因を調査してみた</a></li><li><span><time datetime="2021-06-11 17:37:01 +0900 +0900">Jun 11, 2021</time></span>

diff --git a/tags/docker-compose/index.html b/tags/docker-compose/index.html
@@ -1,0 +1,5 @@
+<!doctype html><html lang=en><head><meta charset=utf-8><meta name=viewport content="width=device-width,initial-scale=1"><meta name=generator content="Hugo 0.83.1"><title>docker-compose - haKiwata</title><meta name=description content><link rel="shortcut icon" href=https://hakiwata.jp/img/images/favicon.ico><link rel=stylesheet href=https://hakiwata.jp/css/ui.css><link rel=stylesheet href=https://hakiwata.jp/css/main.css><link rel=stylesheet href="https://fonts.googleapis.com/css?family=Fira+Mono|Lato|Raleway"><meta property="og:title" content="docker-compose"><meta property="og:description" content="haKiwata's Website."><meta property="og:type" content="website"><meta property="og:url" content="https://hakiwata.jp/tags/docker-compose/"><meta property="og:image" content="https://hakiwata.jp/"><meta name=twitter:card content="summary_large_image"><meta name=twitter:site content="@bilmnpvovqnmlid"><meta name=twitter:creator content="@bilmnpvovqnmlid"><meta property="twitter:image" content="https://hakiwata.jp/img/images/kiwata_partly.png"><meta property="og:title" content="docker-compose"><meta property="og:url" content="https://hakiwata.jp/tags/docker-compose/"><meta property="og:image" content="https://hakiwata.jp/img/images/kiwata_partly.png"><meta property="og:description" content><script async src="https://www.googletagmanager.com/gtag/js?id=G-YXCYPL25QW"></script><script>var doNotTrack=!1;if(!doNotTrack){window.dataLayer=window.dataLayer||[];function gtag(){dataLayer.push(arguments)}gtag('js',new Date),gtag('config','G-YXCYPL25QW',{anonymize_ip:!1})}</script></head><body><header class="container no-print"><div class=u-header><nav class=bar><ul><li><a href=https://hakiwata.jp/><img class=icon-text src=https://hakiwata.jp/img/prev.svg></a></li><li><a href=https://hakiwata.jp/about>About</a></li><li><a href=https://hakiwata.jp/post>Post</a></li><li><a href=https://hakiwata.jp/scraps>Scraps</a></li><li><a href=https://hakiwata.jp/tags>Tags</a></li></ul></nav></div></header><main class=container><article><header><hgroup id=brand><h1>Docker-Compose</h1></hgroup><hr class=sep></header><ul class=no-bullet><li><span><time datetime="2021-11-10 11:17:18 +0000 UTC">Nov 10, 2021</time></span>
+<a href=https://hakiwata.jp/post/20211110/>このブログで使用した技術について</a></li></ul></article><hr class=sep></main><footer class="container no-print"><div class=u-footer><a href=https://github.com/dilmnqvovpnmlib><img class=icon-social src=https://hakiwata.jp/img/github.svg alt=Github></a>
+<a href=https://twitter.com/bilmnpvovqnmlid><img class=icon-social src=https://hakiwata.jp/img/twitter.svg alt=Twitter></a>
+<a href=https://hakiwata.jp/index.xml target=_blank><img class=icon-social src=https://hakiwata.jp/img/feed.svg alt=Feed></a><p>&copy; 2021 haKiwata</p><a href=#brand><img class=icon-text src=https://hakiwata.jp/img/toup.svg alt="To Up">
+<span>Back to Up</span></a></div></footer></body></html>

diff --git a/post/index.html b/post/index.html
@@ -1,5 +1,5 @@
 <!doctype html><html lang=en><head><meta charset=utf-8><meta name=viewport content="width=device-width,initial-scale=1"><meta name=generator content="Hugo 0.83.1"><title>Blog - haKiwata</title><meta name=description content><link rel="shortcut icon" href=https://hakiwata.jp/img/images/favicon.ico><link rel=stylesheet href=https://hakiwata.jp/css/ui.css><link rel=stylesheet href=https://hakiwata.jp/css/main.css><link rel=stylesheet href="https://fonts.googleapis.com/css?family=Fira+Mono|Lato|Raleway"><meta property="og:title" content="Blog"><meta property="og:description" content="haKiwata's Website."><meta property="og:type" content="website"><meta property="og:url" content="https://hakiwata.jp/post/"><meta property="og:image" content="https://hakiwata.jp/"><meta name=twitter:card content="summary_large_image"><meta name=twitter:site content="@bilmnpvovqnmlid"><meta name=twitter:creator content="@bilmnpvovqnmlid"><meta property="twitter:image" content="https://hakiwata.jp/img/images/kiwata_partly.png"><meta property="og:title" content="Blog"><meta property="og:url" content="https://hakiwata.jp/post/"><meta property="og:image" content="https://hakiwata.jp/img/images/kiwata_partly.png"><meta property="og:description" content><script async src="https://www.googletagmanager.com/gtag/js?id=G-YXCYPL25QW"></script><script>var doNotTrack=!1;if(!doNotTrack){window.dataLayer=window.dataLayer||[];function gtag(){dataLayer.push(arguments)}gtag('js',new Date),gtag('config','G-YXCYPL25QW',{anonymize_ip:!1})}</script></head><body><header class="container no-print"><div class=u-header><nav class=bar><ul><li><a href=https://hakiwata.jp/><img class=icon-text src=https://hakiwata.jp/img/prev.svg></a></li><li><a href=https://hakiwata.jp/about>About</a></li><li><a href=https://hakiwata.jp/post>Post</a></li><li><a href=https://hakiwata.jp/scraps>Scraps</a></li><li><a href=https://hakiwata.jp/tags>Tags</a></li></ul></nav></div></header><main class=container><article><header><hgroup id=brand><h1>Blog</h1></hgroup><hr class=sep></header><ul class=no-bullet><li><span><time datetime="2021-11-10 11:17:18 +0000 UTC">Nov 10, 2021</time></span>
-<a href=https://hakiwata.jp/post/20211110/>20211110</a></li><li><span><time datetime="2021-10-17 19:29:55 +0000 UTC">Oct 17, 2021</time></span>
+<a href=https://hakiwata.jp/post/20211110/>このブログで使用した技術について</a></li><li><span><time datetime="2021-10-17 19:29:55 +0000 UTC">Oct 17, 2021</time></span>
 <a href=https://hakiwata.jp/post/20211018/>ゼロからのOS自作入門を読んで
 OS を実装してみた</a></li><li><span><time datetime="2021-09-10 15:50:53 +0000 UTC">Sep 10, 2021</time></span>
 <a href=https://hakiwata.jp/post/20210911/>自作 OS のリポジトリの README.md を自動更新する</a></li><li><span><time datetime="2021-09-01 19:11:00 +0000 UTC">Sep 01, 2021</time></span>

diff --git a/index.html b/index.html
@@ -1,5 +1,5 @@
 <!doctype html><html lang=en><head><meta charset=utf-8><meta name=viewport content="width=device-width,initial-scale=1"><meta name=generator content="Hugo 0.83.1"><title>haKiwata</title><meta name=description content="haKiwata's Website."><link rel="shortcut icon" href=https://hakiwata.jp/img/images/favicon.ico><link rel=stylesheet href=https://hakiwata.jp/css/ui.css><link rel=stylesheet href=https://hakiwata.jp/css/main.css><link rel=stylesheet href="https://fonts.googleapis.com/css?family=Fira+Mono|Lato|Raleway"><meta property="og:title" content="haKiwata"><meta property="og:description" content="haKiwata's Website."><meta property="og:type" content="website"><meta property="og:url" content="https://hakiwata.jp/"><meta property="og:image" content="https://hakiwata.jp/"><meta name=twitter:card content="summary_large_image"><meta name=twitter:site content="@bilmnpvovqnmlid"><meta name=twitter:creator content="@bilmnpvovqnmlid"><meta property="twitter:image" content="https://hakiwata.jp/img/images/kiwata_partly.png"><meta property="og:title" content="haKiwata"><meta property="og:url" content="https://hakiwata.jp/"><meta property="og:image" content="https://hakiwata.jp/img/images/kiwata_partly.png"><meta property="og:description" content><script async src="https://www.googletagmanager.com/gtag/js?id=G-YXCYPL25QW"></script><script>var doNotTrack=!1;if(!doNotTrack){window.dataLayer=window.dataLayer||[];function gtag(){dataLayer.push(arguments)}gtag('js',new Date),gtag('config','G-YXCYPL25QW',{anonymize_ip:!1})}</script></head><body><header class="container no-print"><div class=u-header><nav class=bar><ul><li><a href=https://hakiwata.jp/about>About</a></li><li><a href=https://hakiwata.jp/post>Post</a></li><li><a href=https://hakiwata.jp/scraps>Scraps</a></li><li><a href=https://hakiwata.jp/tags>Tags</a></li></ul></nav></div></header><main class=container><article><header><hgroup id=brand><h1>haKiwata</h1><h5>Welcome to my website !</h5></hgroup><hr class=sep></header><section><h4>Latest Posts</h4><ul class=no-bullet><li><span><time datetime="2021-11-10 11:17:18 +0000 UTC">Nov 10, 2021</time></span>
-<a href=https://hakiwata.jp/post/20211110/>20211110</a></li><li><span><time datetime="2021-10-17 19:29:55 +0000 UTC">Oct 17, 2021</time></span>
+<a href=https://hakiwata.jp/post/20211110/>このブログで使用した技術について</a></li><li><span><time datetime="2021-10-17 19:29:55 +0000 UTC">Oct 17, 2021</time></span>
 <a href=https://hakiwata.jp/post/20211018/>ゼロからのOS自作入門を読んで
 OS を実装してみた</a></li><li><span><time datetime="2021-09-10 15:50:53 +0000 UTC">Sep 10, 2021</time></span>
 <a href=https://hakiwata.jp/post/20210911/>自作 OS のリポジトリの README.md を自動更新する</a></li><li><span><time datetime="2021-09-01 19:11:00 +0000 UTC">Sep 01, 2021</time></span>

diff --git a/tags/index.html b/tags/index.html
@@ -4,11 +4,12 @@
 <span>(4)</span></li><li style=display:inline><a href=https://hakiwata.jp/tags/cd>cd</a>
 <span>(1)</span></li><li style=display:inline><a href=https://hakiwata.jp/tags/ci>ci</a>
 <span>(1)</span></li><li style=display:inline><a href=https://hakiwata.jp/tags/docker>docker</a>
+<span>(2)</span></li><li style=display:inline><a href=https://hakiwata.jp/tags/docker-compose>docker-compose</a>
 <span>(1)</span></li><li style=display:inline><a href=https://hakiwata.jp/tags/ethernet>ethernet</a>
 <span>(1)</span></li><li style=display:inline><a href=https://hakiwata.jp/tags/git>git</a>
 <span>(1)</span></li><li style=display:inline><a href=https://hakiwata.jp/tags/github>github</a>
 <span>(1)</span></li><li style=display:inline><a href=https://hakiwata.jp/tags/hugo>hugo</a>
-<span>(4)</span></li><li style=display:inline><a href=https://hakiwata.jp/tags/icmp>icmp</a>
+<span>(5)</span></li><li style=display:inline><a href=https://hakiwata.jp/tags/icmp>icmp</a>
 <span>(1)</span></li><li style=display:inline><a href=https://hakiwata.jp/tags/ip>ip</a>
 <span>(1)</span></li><li style=display:inline><a href=https://hakiwata.jp/tags/kernel>kernel</a>
 <span>(4)</span></li><li style=display:inline><a href=https://hakiwata.jp/tags/make>make</a>
@@ -17,7 +18,7 @@
 <span>(1)</span></li><li style=display:inline><a href=https://hakiwata.jp/tags/os>os</a>
 <span>(4)</span></li><li style=display:inline><a href=https://hakiwata.jp/tags/poem>poem</a>
 <span>(1)</span></li><li style=display:inline><a href=https://hakiwata.jp/tags/python>python</a>
-<span>(1)</span></li><li style=display:inline><a href=https://hakiwata.jp/tags/study>study</a>
+<span>(2)</span></li><li style=display:inline><a href=https://hakiwata.jp/tags/study>study</a>
 <span>(3)</span></li><li style=display:inline><a href=https://hakiwata.jp/tags/tcp>tcp</a>
 <span>(1)</span></li><li style=display:inline><a href=https://hakiwata.jp/tags/tmux>tmux</a>
 <span>(1)</span></li><li style=display:inline><a href=https://hakiwata.jp/tags/udp>udp</a>

diff --git a/tags/docker-compose/page/1/index.html b/tags/docker-compose/page/1/index.html
@@ -1,0 +1,1 @@
+<!doctype html><html><head><title>https://hakiwata.jp/tags/docker-compose/</title><link rel=canonical href=https://hakiwata.jp/tags/docker-compose/><meta name=robots content="noindex"><meta charset=utf-8><meta http-equiv=refresh content="0; url=https://hakiwata.jp/tags/docker-compose/"></head></html>
